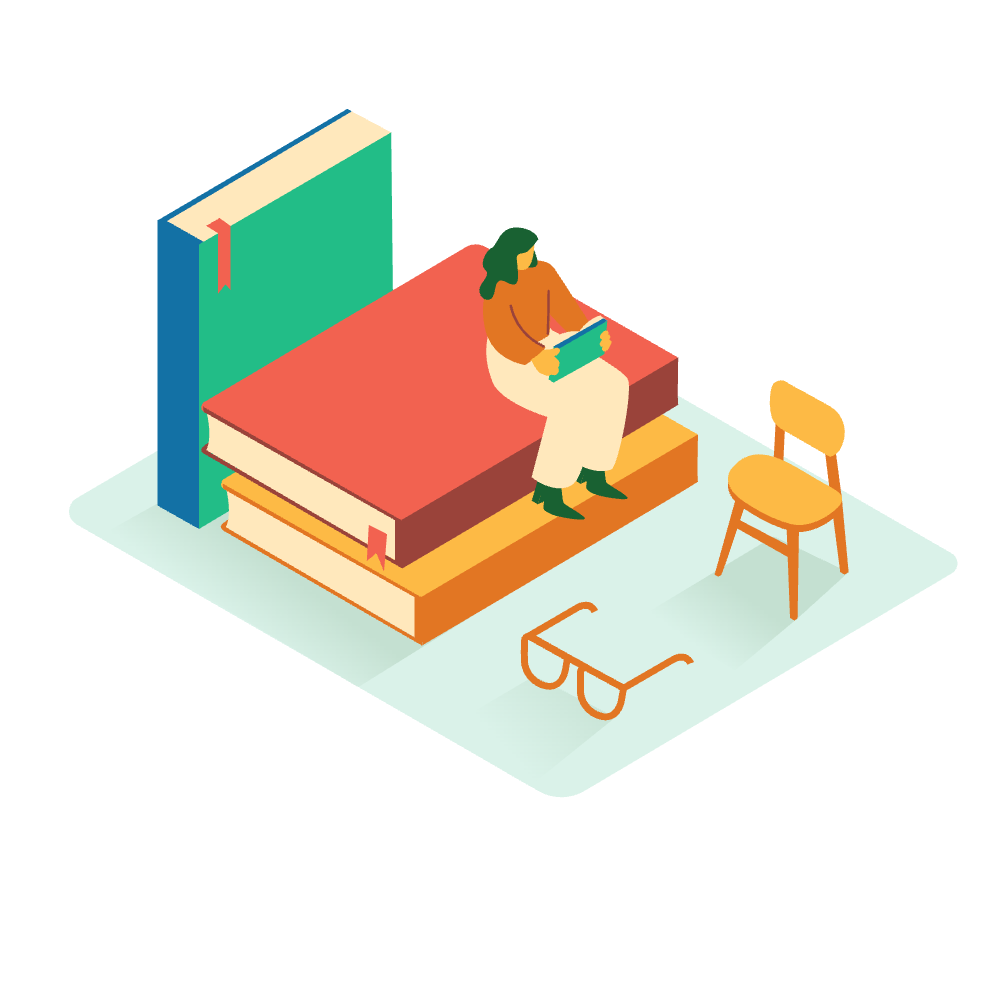
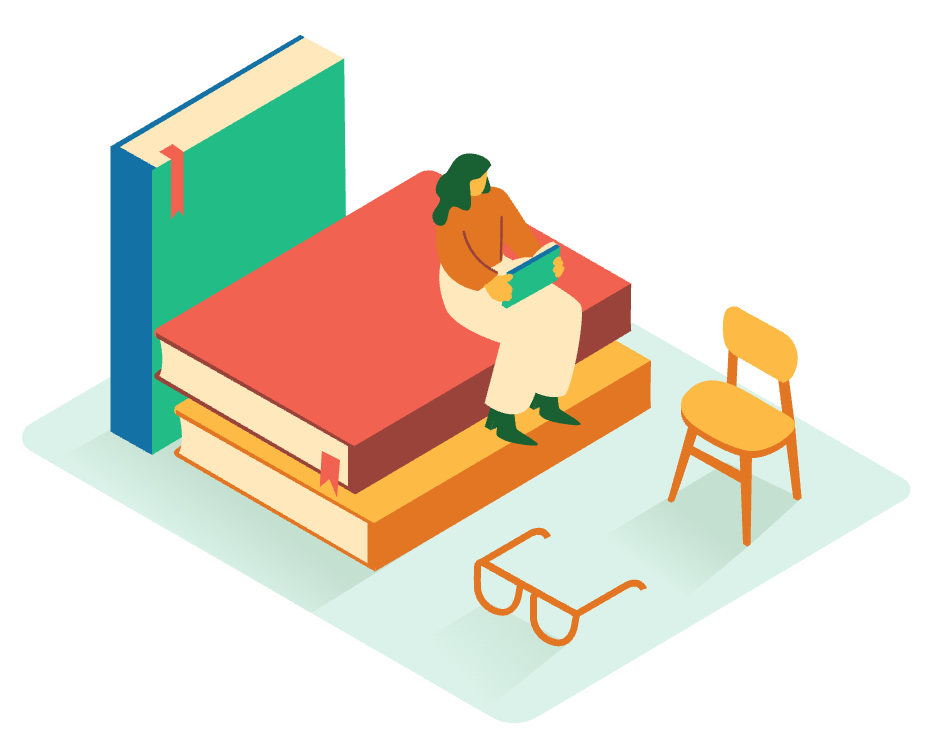
トップページのスタイル調整

diff --git a/src/components/Search.jsx b/src/components/Search.jsx
@@ -3,16 +3,16 @@ import { IoSearchSharp } from 'react-icons/io5'
 const Search = ({ onSearch, keywordRef }) => {
   return (
     <div className="mx-5 my-4">
-      <label htmlFor="keyword" className="mb-1 block text-xs">
-        書名・著者名など
+      <label htmlFor="keyword" className="mb-1 block text-xs pl-1">
+        本をさがす
       </label>
       <form onSubmit={onSearch} className="relative flex">
         <input
           type="text"
           name="keyword"
           ref={keywordRef}
-          placeholder="検索ワードを入力してください"
-          className="h-full w-full min-w-0 rounded border border-emerald-500 px-2 py-1.5 text-lg font-medium focus:outline-none"
+          placeholder="タイトル・著者名など"
+          className="h-full w-full min-w-0 rounded border border-emerald-500 px-2 py-1 text-lg focus:outline-none"
         />
         <button
           type="submit"

diff --git a/src/components/Hero.jsx b/src/components/Hero.jsx
@@ -2,12 +2,12 @@ import heroImage from '../assets/hero-img.png'
 
 function Hero() {
   return (
-    <div>
-      <img src={heroImage} alt="ヒーローイメージ" className="mx-auto mt-4 block w-[280px]" />
-      <h2 className="mx-5 bg-emerald-500 px-3 py-2 text-2xl font-bold text-white">
+    <div className='mx-5'>
+      <img src={heroImage} alt="ヒーローイメージ" className="mx-auto mt-10 mb-8 block w-[300px]" />
+      <h2 className="bg-emerald-500 px-3 py-2 text-2xl font-semibold text-white">
         図書館予約カードの記入をラクにする
       </h2>
-      <p className="mx-5 my-4">図書館で予約・リクエストカードを記入する際に必要な書籍情報を表示します</p>
+      <p className="mt-4 mb-8 px-1">図書館で予約・リクエストカードを記入する際に必要な書籍情報を表示します</p>
     </div>
   )
 }

diff --git a/src/App.jsx b/src/App.jsx
@@ -37,7 +37,7 @@ function App() {
   }
 
   return (
-    <div>
+    <div className='bg-emerald-25 text-zinc-700 min-h-screen relative pb-[64px]'>
       <Header goHome={goHome} />
       {searchedBooks == null && !isLoading && <Hero />}
       <Search keywordRef={keywordRef} onSearch={onSearch} />
@@ -46,7 +46,8 @@ function App() {
       ) : (
         <BookList searchedBooks={searchedBooks} onSelect={onSelect} isLoading={isLoading} />
       )}
-      {searchedBooks != null && !isLoading && <Footer />}
+      {/* {searchedBooks != null && !isLoading && <Footer />} */}
+      <Footer />
     </div>
   )
 }

diff --git a/src/components/Header.jsx b/src/components/Header.jsx
@@ -1,9 +1,14 @@
+import { ImBooks } from "react-icons/im";
+
 export default function Header({ goHome }) {
   return (
-    <div className="bg-emerald-500 text-lg font-bold text-white">
-      <p onClick={goHome} className="px-2 py-2 cursor-pointer">
-        リブラク
-      </p>
+    <div className="bg-emerald-500">
+      <div onClick={goHome} className="cursor-pointer flex w-fit text-xl font-bold text-white py-3">
+        <div className="text-2xl pl-5 pr-1">
+          <ImBooks />
+        </div>
+        <p>リブラク</p>
+      </div>
     </div>
   )
 }

diff --git a/src/components/Footer.jsx b/src/components/Footer.jsx
@@ -1,6 +1,6 @@
 export default function Footer() {
   return (
-    <div className="mt-8 flex h-[32px] w-full items-center justify-center bg-emerald-500 text-xs text-white">
+    <div className="absolute bottom-0 mt-8 flex h-[32px] w-full items-center justify-center bg-emerald-500 text-xs text-white">
       <p>Developed by kagome 2024</p>
     </div>
   )

diff --git a/tailwind.config.js b/tailwind.config.js
@@ -20,6 +20,9 @@ export default {
         semibold: 600,
         bold: 700,
       },
+      spacing: {
+        'calc': 'calc(100vh - 52px)'
+      }
     },
   },
   plugins: [],

diff --git a/src/main.css b/src/main.css
@@ -9,5 +9,5 @@
 }
 
 body {
-  @apply bg-emerald-25 text-zinc-700;
+  @apply bg-emerald-500;
 }

diff --git a/MEMO.md b/MEMO.md
@@ -84,8 +84,40 @@
   ```
 
 - `inset`
+
   - top, right, bottom, left に対応する一括指定
   - `inset: 0`はモーダルの背景に最適
+
+- bodyに背景色をつけて、バウンススクロール時に対策をしたい
+
+  ```css
+  body {
+    background: #ddd;
+  }
+
+  .main-wrapper {
+    min-height: 100vh;
+  }
+  ```
+
+  - 上下で色を変えたい時はこちらを参考:
+    https://qiita.com/bgn_nakazato/items/9399937fdf4059f9f9d7
+
+- フッターを下に固定
+
+  ```css
+  .main-wrapper {
+    position: relative;
+    padding-bottom: 32px;
+    /* フッターの上部に余白が欲しい場合はフッターの高さに加えて余白分も数値もプラスする */
+  }
+
+  .footer {
+    position: absolute;
+    bottom: 0;
+    height: 32px;
+  }
+  ```
 
 ## npm
 
